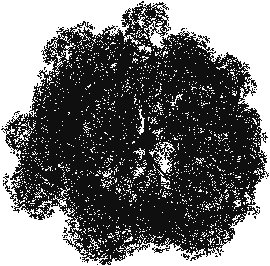
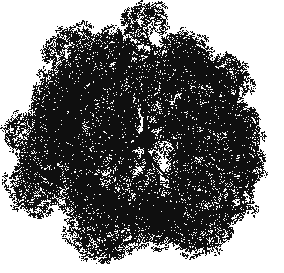
0.5.3 добавил удаление листвы под курсором и рядом с персонажем

diff --git a/manager.py b/manager.py
@@ -1,5 +1,4 @@
-import time
-from math import sin
+import pygame.draw
 
 from level import create_level
 from settings import *
@@ -22,8 +21,17 @@ class Manager:
         self.sc_middle_plan.fill((0, 0, 0, 0))
         self.sc_lamp = pygame.Surface((WIDTH * 6, HEIGHT * 6), pygame.SRCALPHA)
         self.sc_lamp.fill((0, 0, 0, 0))
+        self.sc_bounding_trees = pygame.Surface((WIDTH * 6, HEIGHT * 6), pygame.SRCALPHA)
+        self.sc_bounding_trees.fill((0, 0, 0, 0))
         self.sc_foreground = pygame.Surface((WIDTH * 6, HEIGHT * 6), pygame.SRCALPHA)
         self.sc_foreground.fill((0, 0, 0, 0))
+
+        self.sc_foreground_del = pygame.Surface((WIDTH, HEIGHT),
+                                                pygame.SRCALPHA)  # для удаления деревьев на месте курсора
+        self.sc_foreground_del.fill((255, 255, 255))
+        self.sc_foreground_copy = pygame.Surface((WIDTH, HEIGHT),
+                                                 pygame.SRCALPHA)  # копия слоя с деревьями для корректной работы их удаления
+
         self.sky_screen = pygame.Surface((WIDTH, HEIGHT), pygame.SRCALPHA)
         self.sky_screen.fill((0, 0, 0, 0))
         for tile in background_map_l1:
@@ -34,7 +42,10 @@ class Manager:
             tile.paint(self.sc_background)
         create_level(self.sc_middle_plan)
         for tile in foreground_world_map:
-            tile.paint(self.sc_foreground)
+            if tile.type == 'tree':
+                tile.paint(self.sc_foreground)
+            else:
+                tile.paint(self.sc_bounding_trees)
         self.sc_light_emitter = pygame.Surface((WIDTH, HEIGHT))
         self.sc_light_emitter1 = pygame.Surface((WIDTH, HEIGHT))
 
@@ -44,11 +55,17 @@ class Manager:
         self.screen.blit(render, FPS_POS)
 
     def paint(self, sunlight_intensity):
-        color_shift = 0
-        self.sc.fill((144 + color_shift, 144 + color_shift, 144 + color_shift))
+        self.sc.fill((105, 105, 105))
         self.sc_light.fill((50, 50, 50, 0))
         self.sc_lamp.fill((0, 0, 0, 0))
         self.sky_screen.fill((0, 0, 0, 0))
+        self.sc_foreground_copy.fill((0, 0, 0, 0))
+        self.sc_foreground_del.fill((255, 255, 255))
+        for i in range(12):
+            pygame.draw.circle(self.sc_foreground_del, (0, 0, 0, 180 - i * 15), pygame.mouse.get_pos(), 100 - i * 3)
+            pygame.draw.circle(self.sc_foreground_del, (0, 0, 0, 180 - i * 15),
+                               (self.player.pos[0] - self.player.scroll[0], self.player.pos[1] - self.player.scroll[1]),
+                               90 - i * 3)
 
         door_map_copy = door_map.copy()
         for door in self.doors:
@@ -61,7 +78,7 @@ class Manager:
         for i in light_emitter_map:
             if self.player.rect.x - RENDERING_RANGE[0] < i.x < self.player.rect.x + RENDERING_RANGE[0] and \
                     self.player.rect.y - RENDERING_RANGE[1] < i.y < self.player.rect.y + RENDERING_RANGE[1]:
-                i.paint(self.sc_light_emitter, self.sc_light_emitter1, (0, 0, 0),
+                i.paint(self.sc_light_emitter, self.sc_light_emitter1, (10, 10, 10),
                         self.player.scroll, map_for_lighting, door_map_copy, self.player.rect.y, self.sc_lamp)
         self.sc.blit(self.sc_background, (-self.player.scroll[0], -self.player.scroll[1]))
 
@@ -78,5 +95,9 @@ class Manager:
         self.player.paint(self.sc)
         for door in self.doors:
             door.paint(self.sc, self.player.scroll)
-        self.sc.blit(self.sc_foreground, (-self.player.scroll[0], -self.player.scroll[1]))
+        self.sc_foreground_copy.blit(self.sc_foreground, (-self.player.scroll[0], -self.player.scroll[1]))
+        self.sc_foreground_copy.blit(self.sc_foreground_del, (0, 0),
+                                     special_flags=pygame.BLEND_RGBA_MIN)
+        self.sc.blit(self.sc_foreground_copy, (0, 0))
+        self.sc.blit(self.sc_bounding_trees, (-self.player.scroll[0], -self.player.scroll[1]))
         self.screen.blit(self.sc, (0, 0))

diff --git a/test'.py b/test'.py
@@ -1,74 +1,11 @@
-def line_intersection(line1, line2):
-    xdiff = (line1[0][0] - line1[1][0], line2[0][0] - line2[1][0])
-    ydiff = (line1[0][1] - line1[1][1], line2[0][1] - line2[1][1])
+from PIL import Image
 
-    def det(a, b):
-        return a[0] * b[1] - a[1] * b[0]
+im = Image.open('data/light/clearance.png')
+pix = im.load()
+w, hhhhh = im.size
 
-    div = det(xdiff, ydiff)
-    if div == 0:
-       raise Exception('lines do not intersect')
-
-    d = (det(*line1), det(*line2))
-    x = det(d, xdiff) / div
-    y = det(d, ydiff) / div
-    return x, y
-
-import sys
-
-from settings import *
-
-from numba import njit
-
-
-# @njit(fastmath=True, cache=True)
-def ray_casting(player_pos, player_angle, world_map):
-    ox, oy = player_pos
-    rays = [(ox, oy)]
-    cur_angle = player_angle - FOV / 2
-    for ray in range(NUM_RAYS):
-        sin_a = math.sin(cur_angle)
-        cos_a = math.cos(cur_angle)
-        sin_a = sin_a if sin_a else 0.000001
-        cos_a = cos_a if cos_a else 0.000001
-        X, Y = -10, -10
-
-        x, y = cos_a * MAX_DEPTH, sin_a * MAX_DEPTH
-        for i in world_map:
-            pos = line_intersection(((ox, oy), (x, y)), i)
-            if pos:
-                X, Y = min((X, Y), pos, key=lambda a: math.sqrt((ox - a[0]) ** 2 + (oy - a[1]) ** 2))
-        if X < 0:
-            X = x + ox
-            Y = y + oy
-
-        if X >= 0 and Y >= 0:
-            rays.append((X, Y))
-
-        cur_angle += FOV / NUM_RAYS
-    return rays
-
-
-pygame.init()
-screen = pygame.display.set_mode((WIDTH, HEIGHT), pygame.SCALED | pygame.FULLSCREEN | pygame.DOUBLEBUF)
-
-clock = pygame.time.Clock()
-angle = 0
-
-while 1:
-    for event in pygame.event.get():
-        if event.type == pygame.QUIT:
-            pygame.quit()
-            sys.exit()
-    screen.fill((80, 80, 255))
-    line = ((300, 500), (200, 200))
-    line1 = ((300, 100), (200, 200))
-    lines = [line, line1]
-    rays = ray_casting((100, 300), angle, lines)
-    pygame.draw.polygon(screen, (234, 224, 191, 100), rays)
-    pygame.draw.rect(screen, 'red', (95, 295, 10, 10))
-    for line in lines:
-        pygame.draw.line(screen, 'red', line[0], line[1])
-
-    pygame.display.flip()
-    clock.tick()
+for i in range(w):
+    for j in range(hhhhh):
+        r, g, b, h = pix[i, j]
+        pix[i, j] = 255 - r, 255 - g, 255 - b, 255 - h
+im.save('data/light/clearance.png')

diff --git a/tile.py b/tile.py
@@ -83,6 +83,20 @@ class Tree(Tile):
         self.im = pygame.transform.flip(pygame.transform.rotate(self.im, randrange(0, 360, 10)), bool(randint(0, 1)),
                                         bool(randint(0, 1)))
         self.margins = [self.im.get_width() // 2 - TILE // 2, self.im.get_height() // 2 - TILE // 2]
+        self.type = 'tree'
 
     def paint(self, sc):
         sc.blit(self.im, (self.x - self.margins[0], self.y - self.margins[1]))
+
+
+class Stump(Tile):
+    def __init__(self, x, y):
+        super(Stump, self).__init__(x, y)
+        self.im = pygame.image.load('data/stump/1.png').convert_alpha()
+        self.type = 'stump'
+
+
+class BoundingTree(Tree):
+    def __init__(self, x, y):
+        super(BoundingTree, self).__init__(x, y)
+        self.type = 'bounding_tree'

diff --git a/map.py b/map.py
@@ -35,6 +35,11 @@ for j in range(height):
             foreground_world_map.add(Tree(i * TILE, j * TILE))
             map_for_lighting[(i * TILE, j * TILE)] = 1
             physics_world_map[-1].append(Tile(i * TILE, j * TILE))
+            world_map[-1].append(Stump(i * TILE, j * TILE))
+        elif (r, g, b) == (0, 129, 0):  # ограничивающее дерево
+            foreground_world_map.add(BoundingTree(i * TILE, j * TILE))
+            map_for_lighting[(i * TILE, j * TILE)] = 1
+            physics_world_map[-1].append(Tile(i * TILE, j * TILE))
             world_map[-1].append(Tile(i * TILE, j * TILE))
         elif (r, g, b) == (220, 220, 0):  # лампа
             light_emitter_map.add(LightEmitter(i * TILE, j * TILE))

diff --git a/level.py b/level.py
@@ -8,7 +8,7 @@ def create_level(screen):
         for x in range(len(world_map[0])):
             if world_map[y][x] is not None:
                 tile = world_map[y][x]
-                if tile.type == 'wall':
+                if tile.type == 'wall' or tile.type == 'stump':
                     tile.paint(screen)
                 elif tile.type == 'window':
                     if world_map[y - 1][x] is not None and world_map[y - 1][x].type == 'wall':

diff --git a/main.py b/main.py
@@ -16,7 +16,7 @@ player = Player(physics)
 manager = Manager(screen, player)
 pygame.mouse.set_visible(False)
 cursor = Cursor()
-sunlight_intensity = 0
+sunlight_intensity = 90
 
 while True:
     events = pygame.event.get()

diff --git a/settings.py b/settings.py
@@ -14,7 +14,7 @@ FPS_POS = (WIDTH - 65, 5)
 # ray casting settings
 FOV = math.pi / 2
 HALF_FOV = FOV / 2
-NUM_RAYS = 150
+NUM_RAYS = 90
 MAX_DEPTH = 300
 RENDERING_RANGE = [MAX_DEPTH * 3, MAX_DEPTH * 2.1]
 
